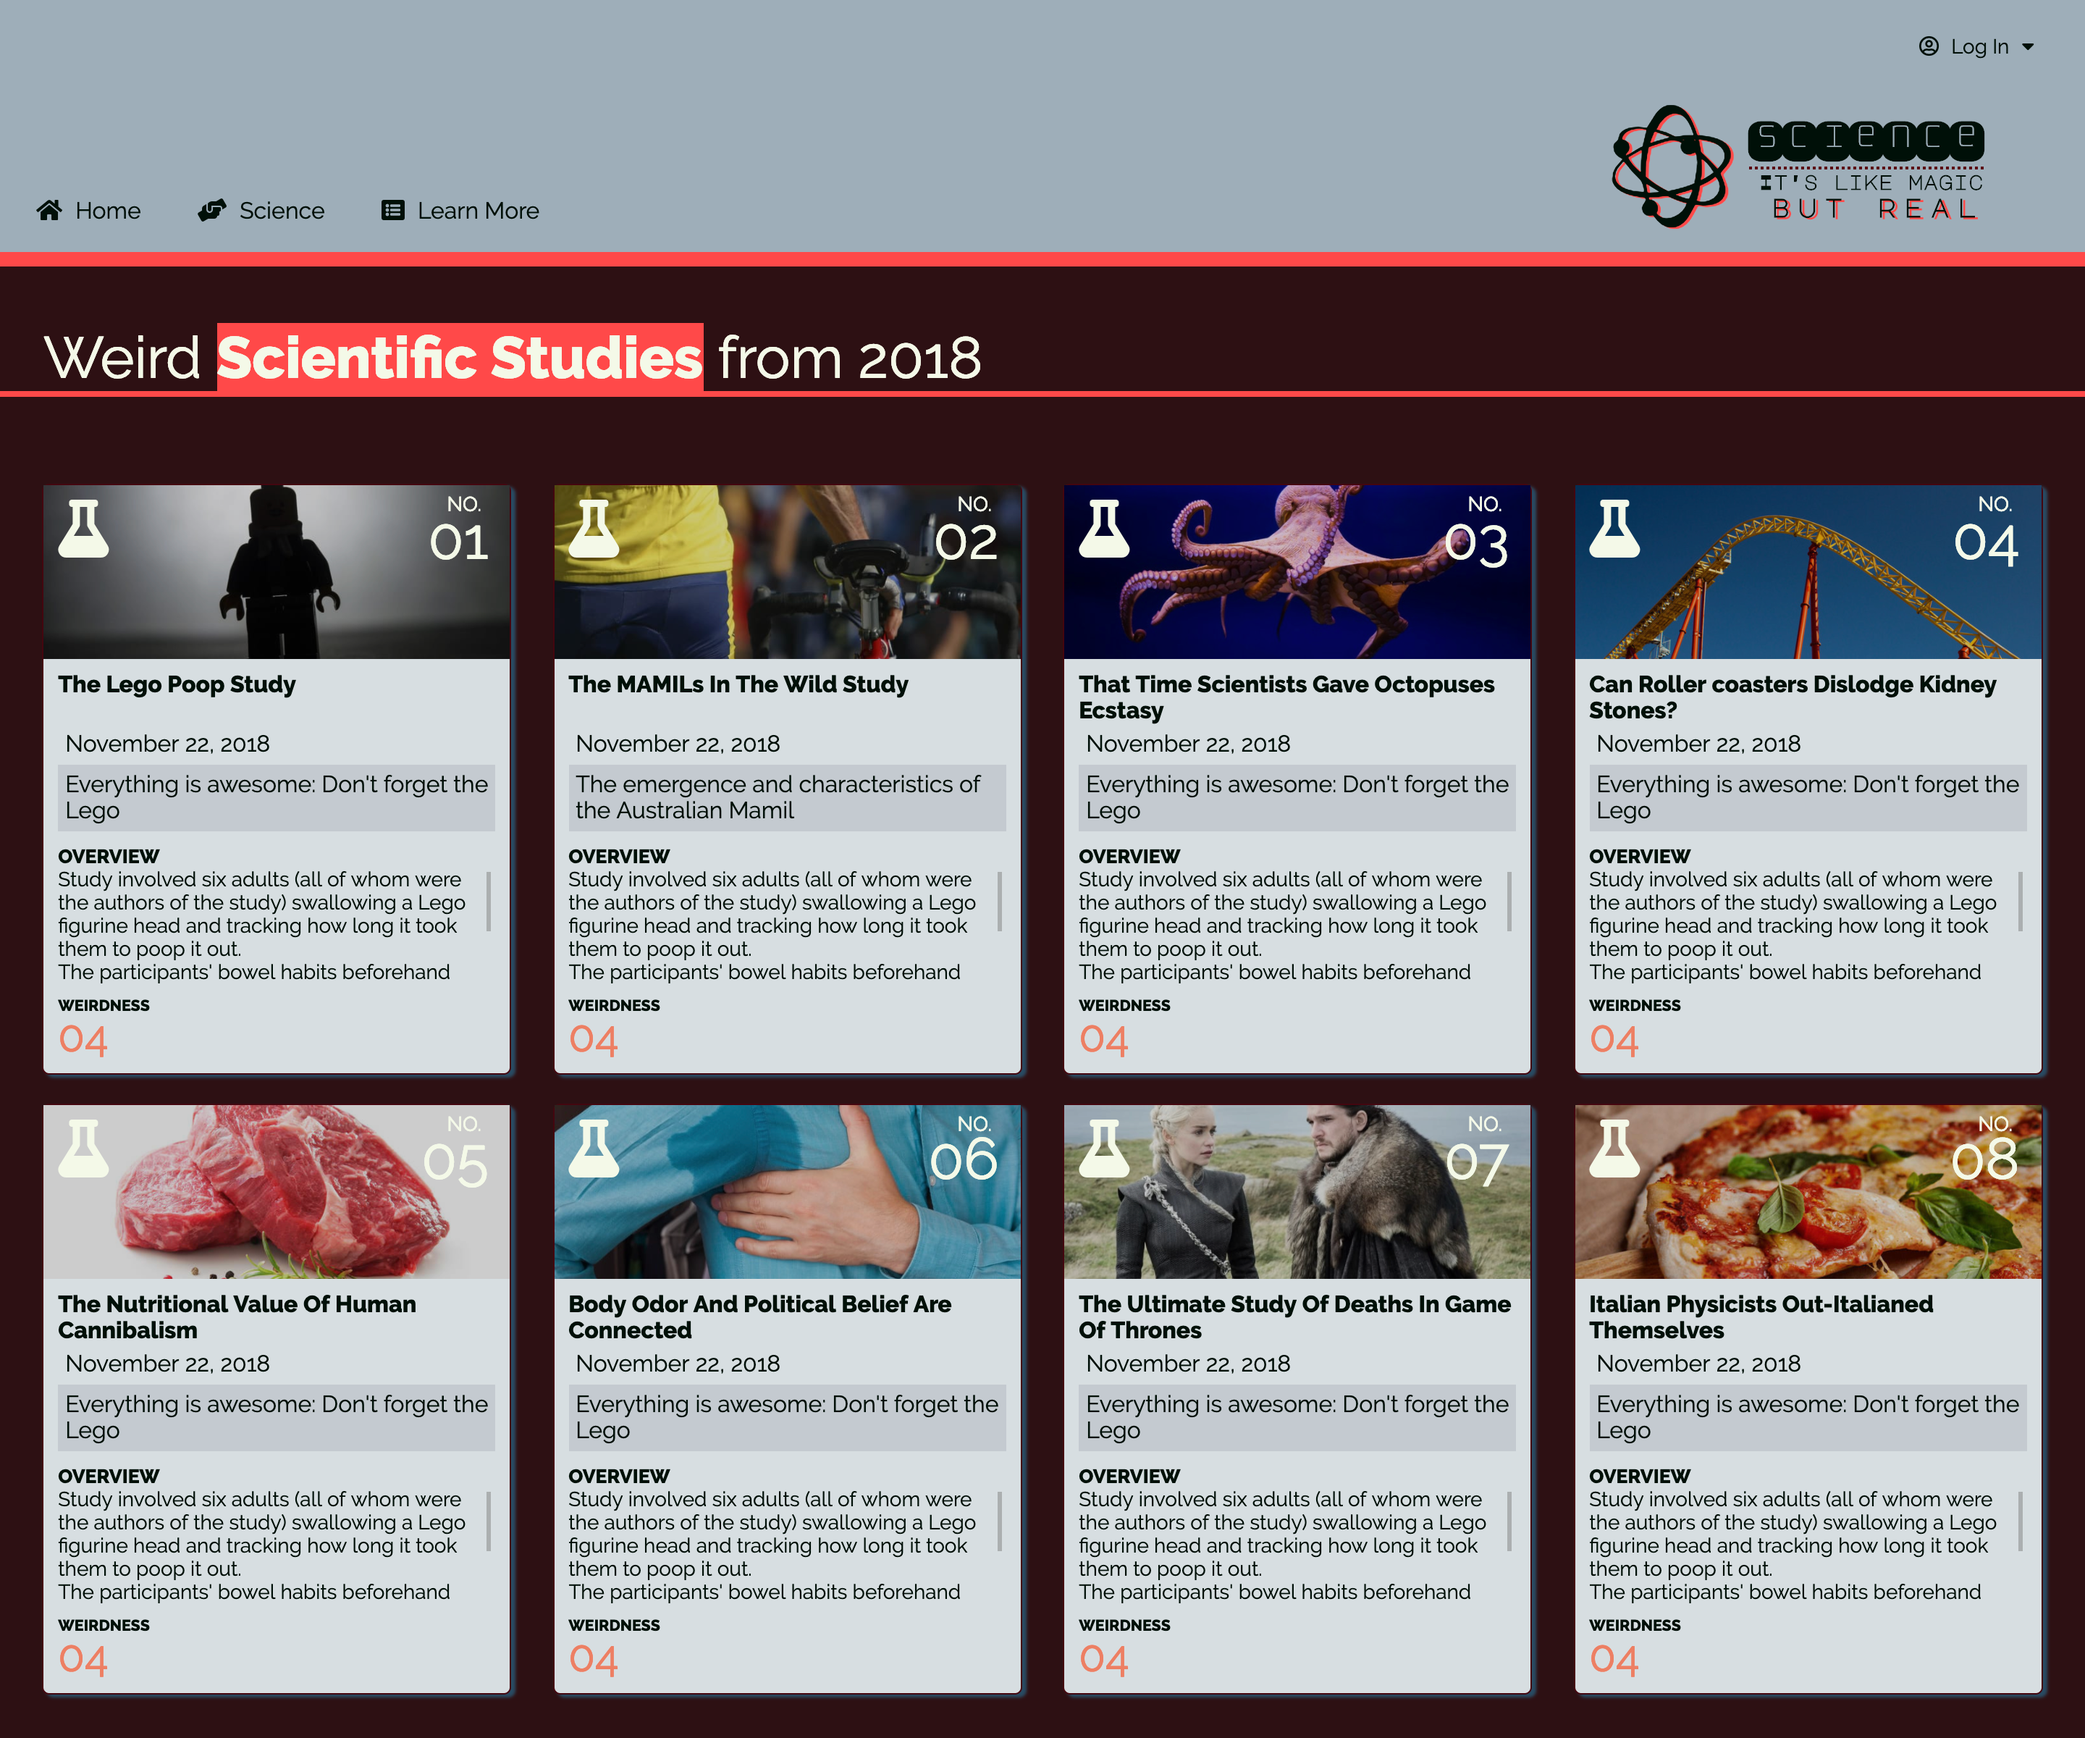
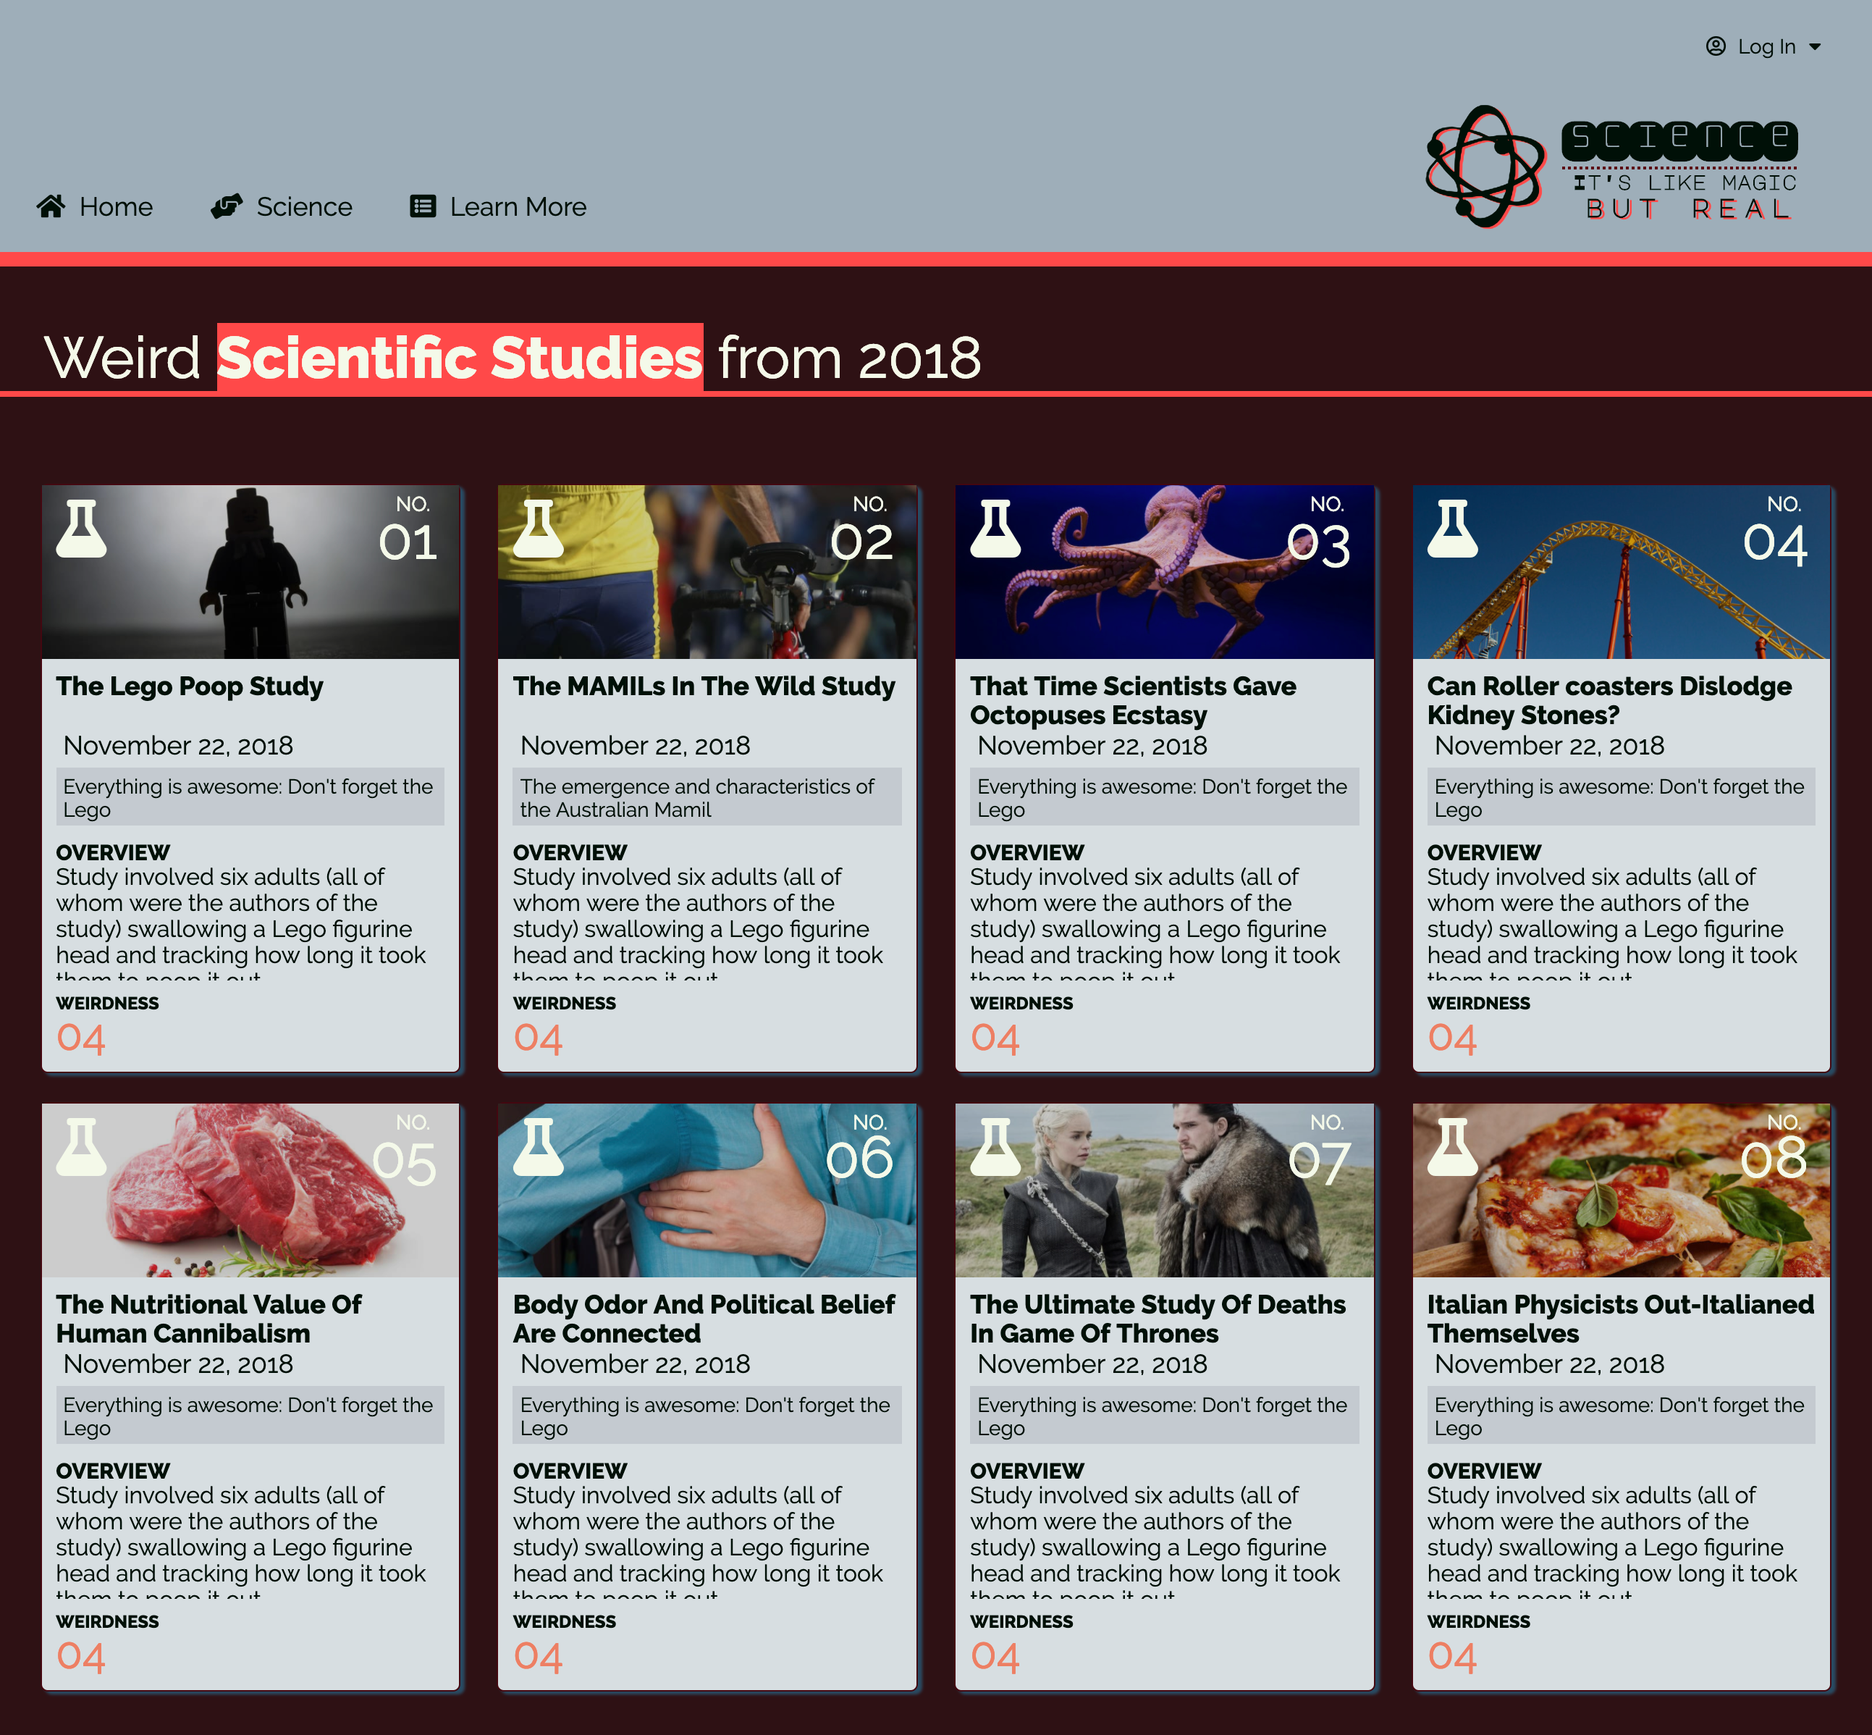
Add screenshots updated

diff --git a/styles/styles.css b/styles/styles.css
@@ -8,7 +8,7 @@
 }
 
 body {
-  font-size: 16px;
+  font-size: 18px;
   font-family: 'Raleway', sans-serif;
   color: #000F08;
 }
@@ -145,6 +145,8 @@ p {
   border-radius: 10px;
   background-color: #284B63;
   box-shadow: 0 0 20px 20px #284B63;
+  color: #F4F9E9;
+
 }
 
 /*/////MAIN/////*/
@@ -220,7 +222,7 @@ h3 {
   top: 5px;
   z-index: 3;
   right: 1rem;
-  font-size: .7rem;
+  font-size: 14px;
   color: #F4F9E9;
   text-transform: uppercase;
 }
@@ -240,6 +242,15 @@ h3 {
   padding: 5px 10px 10px 10px;
 }
 
+.link {
+  height: 40px;
+  font-size: 14px;
+}
+.link:hover {
+   color: #284B63;
+   text-decoration: underline dotted;
+}
+
 h4 {
   height: 36px;
 }
@@ -254,7 +265,7 @@ h4 {
 
 
 .details {
-  font-size: 14px;
+  font-size: 16px;
   width: 100%;
   height: 80px;
   overflow: auto;
